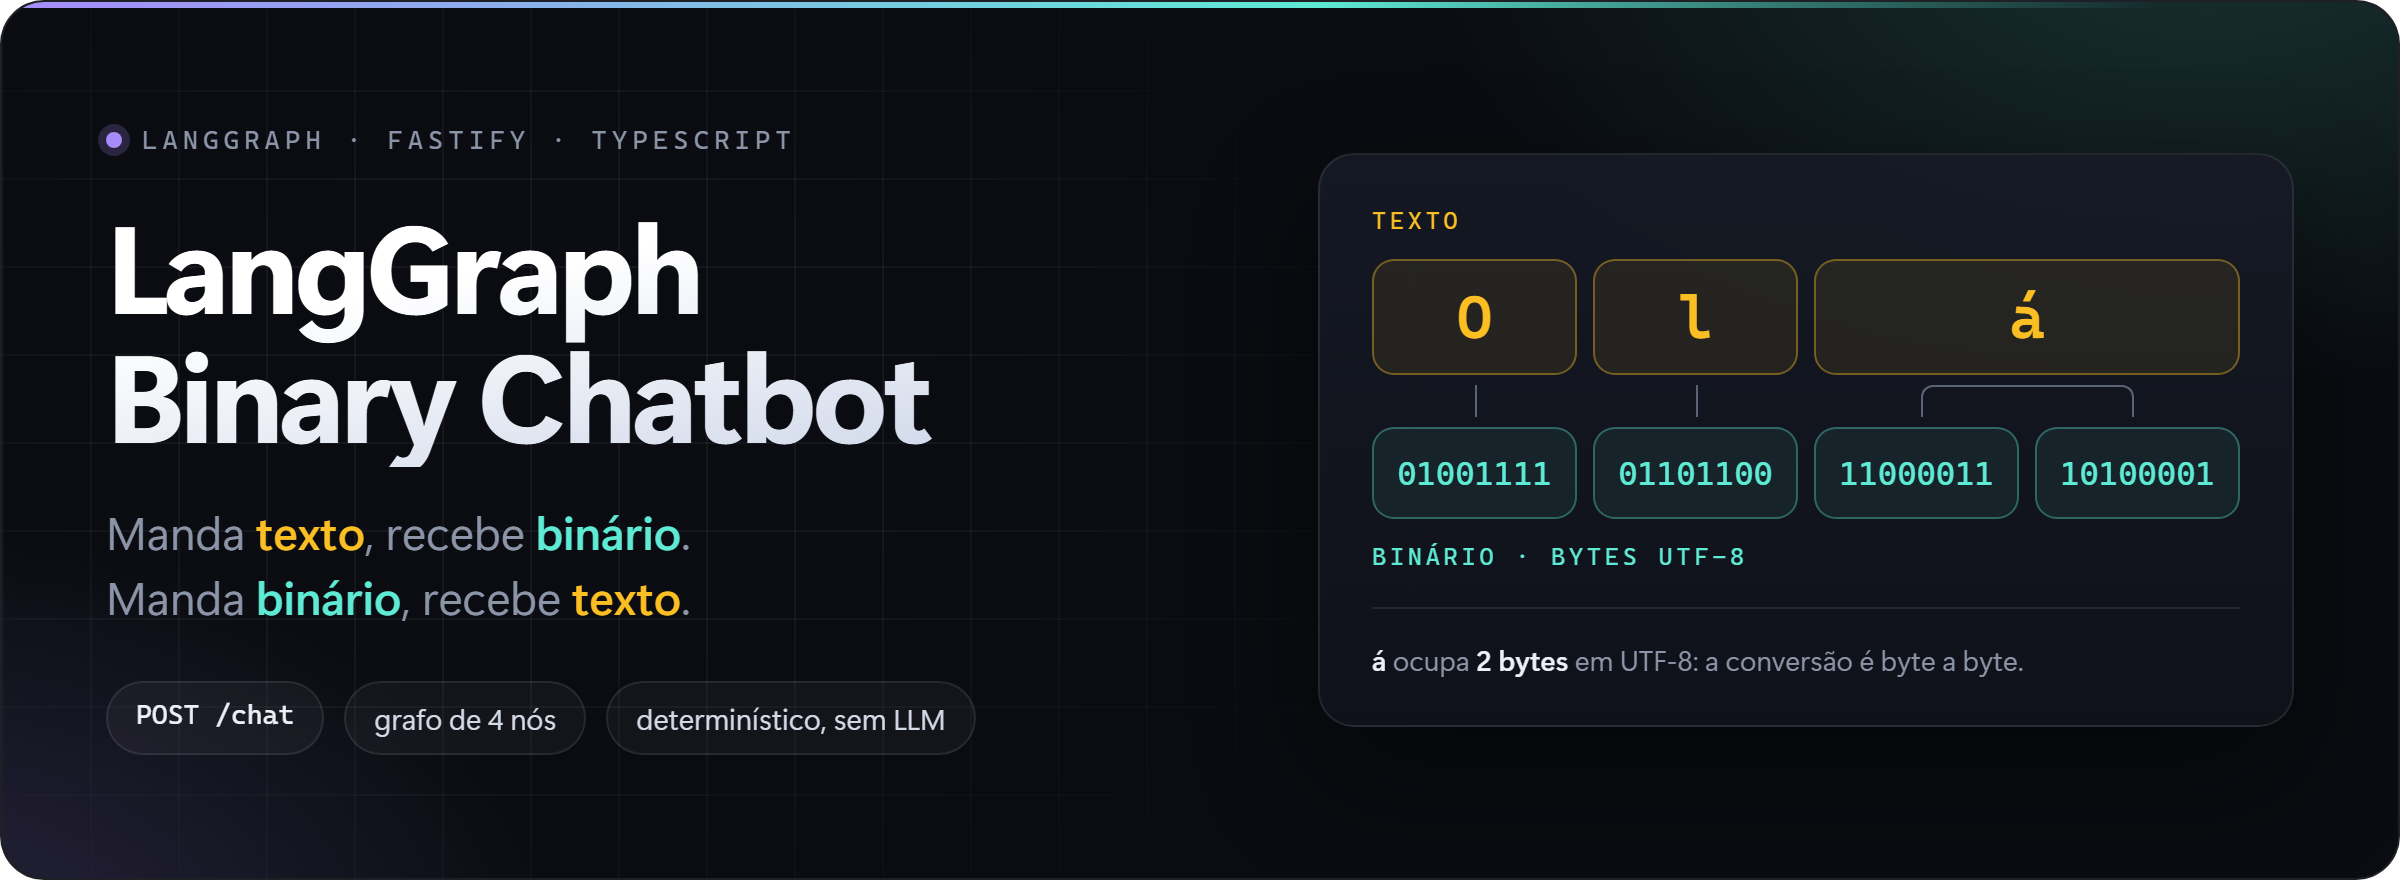
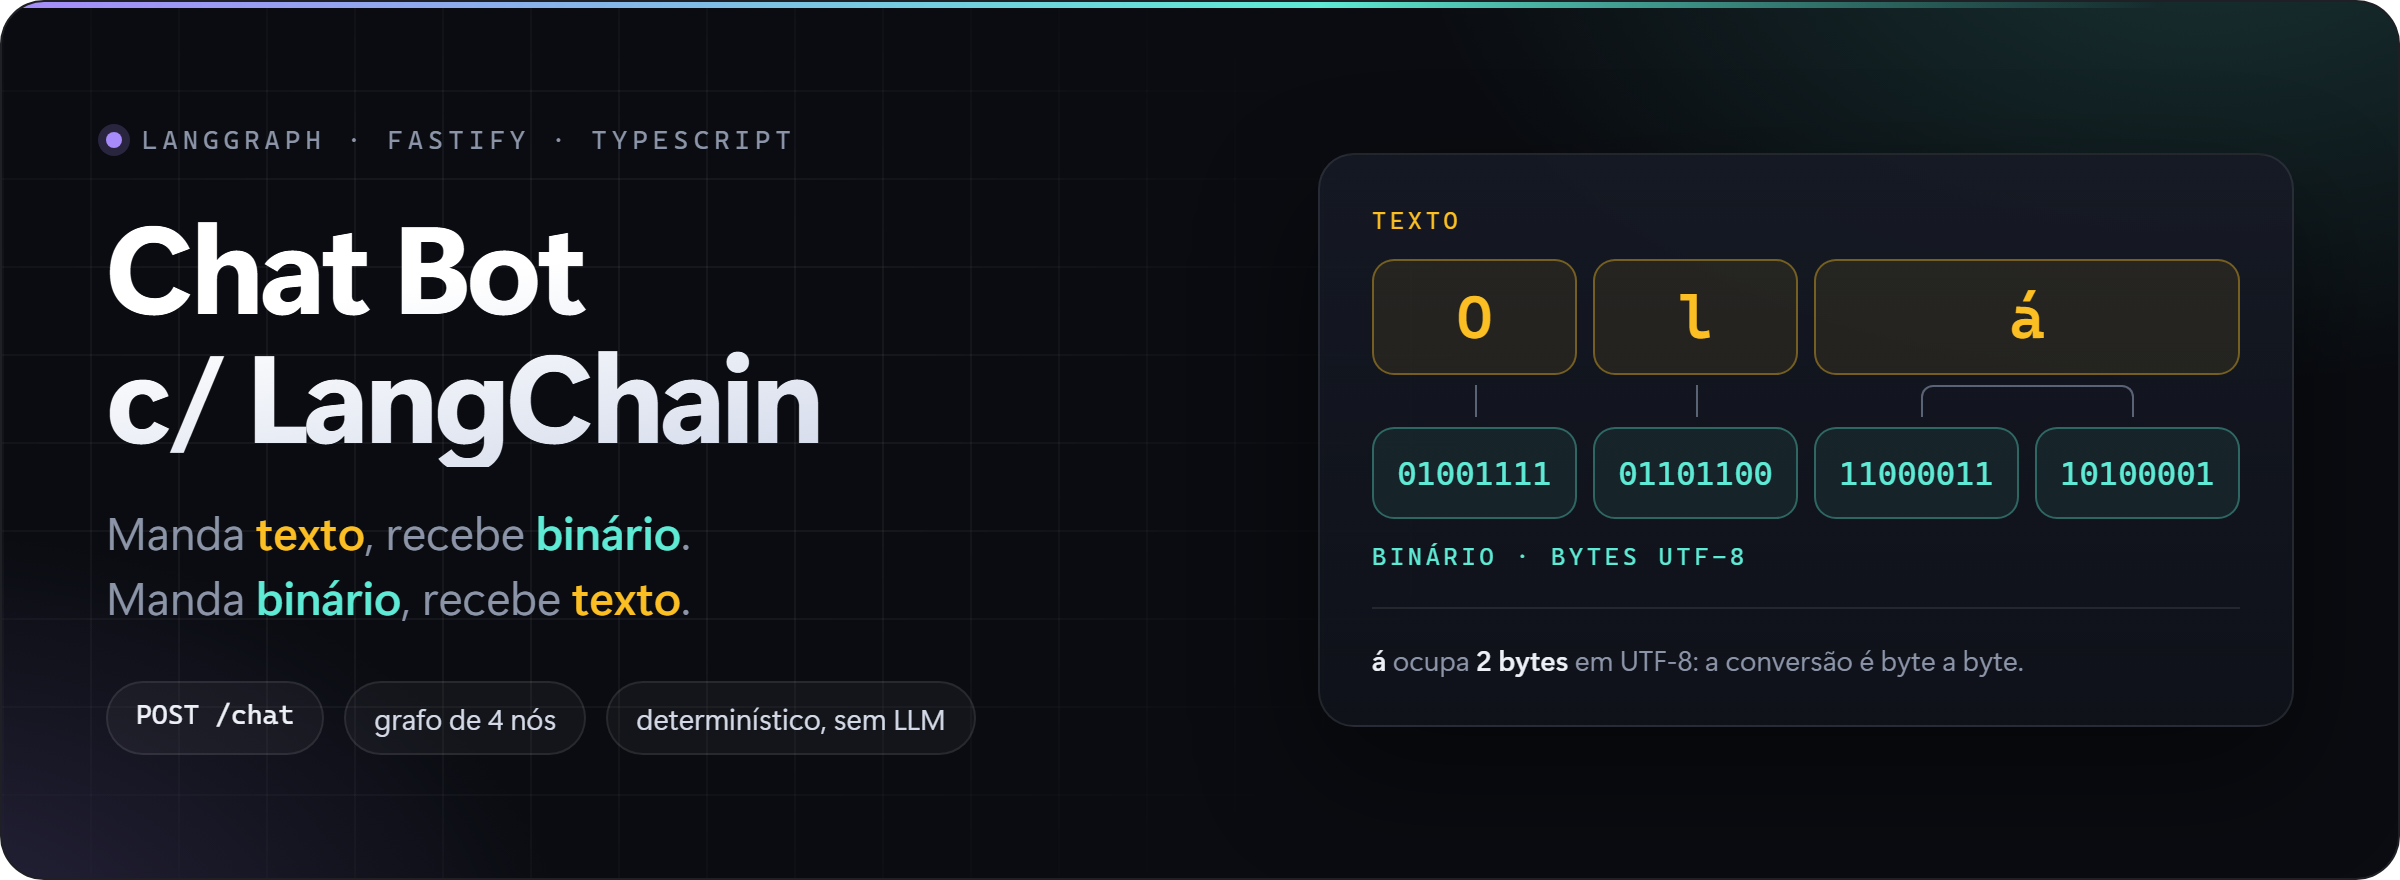
Fix

Changed region(s): [[0.0312, 0.2455, 0.4062, 0.5523]]

diff --git a/README.md b/README.md
@@ -1,8 +1,8 @@
 <div align="center">
 
-<img src="docs/banner.png" alt="LangGraph Binary Chatbot: manda texto, recebe binário; manda binário, recebe texto">
+<img src="docs/banner.png" alt="Chat Bot c/ LangChain: manda texto, recebe binário; manda binário, recebe texto">
 
-# LangGraph Binary Chatbot
+# Chat Bot c/ LangChain
 
 **Manda texto, recebe binário. Manda binário, recebe texto. Quem decide o caminho é um grafo.**
 
